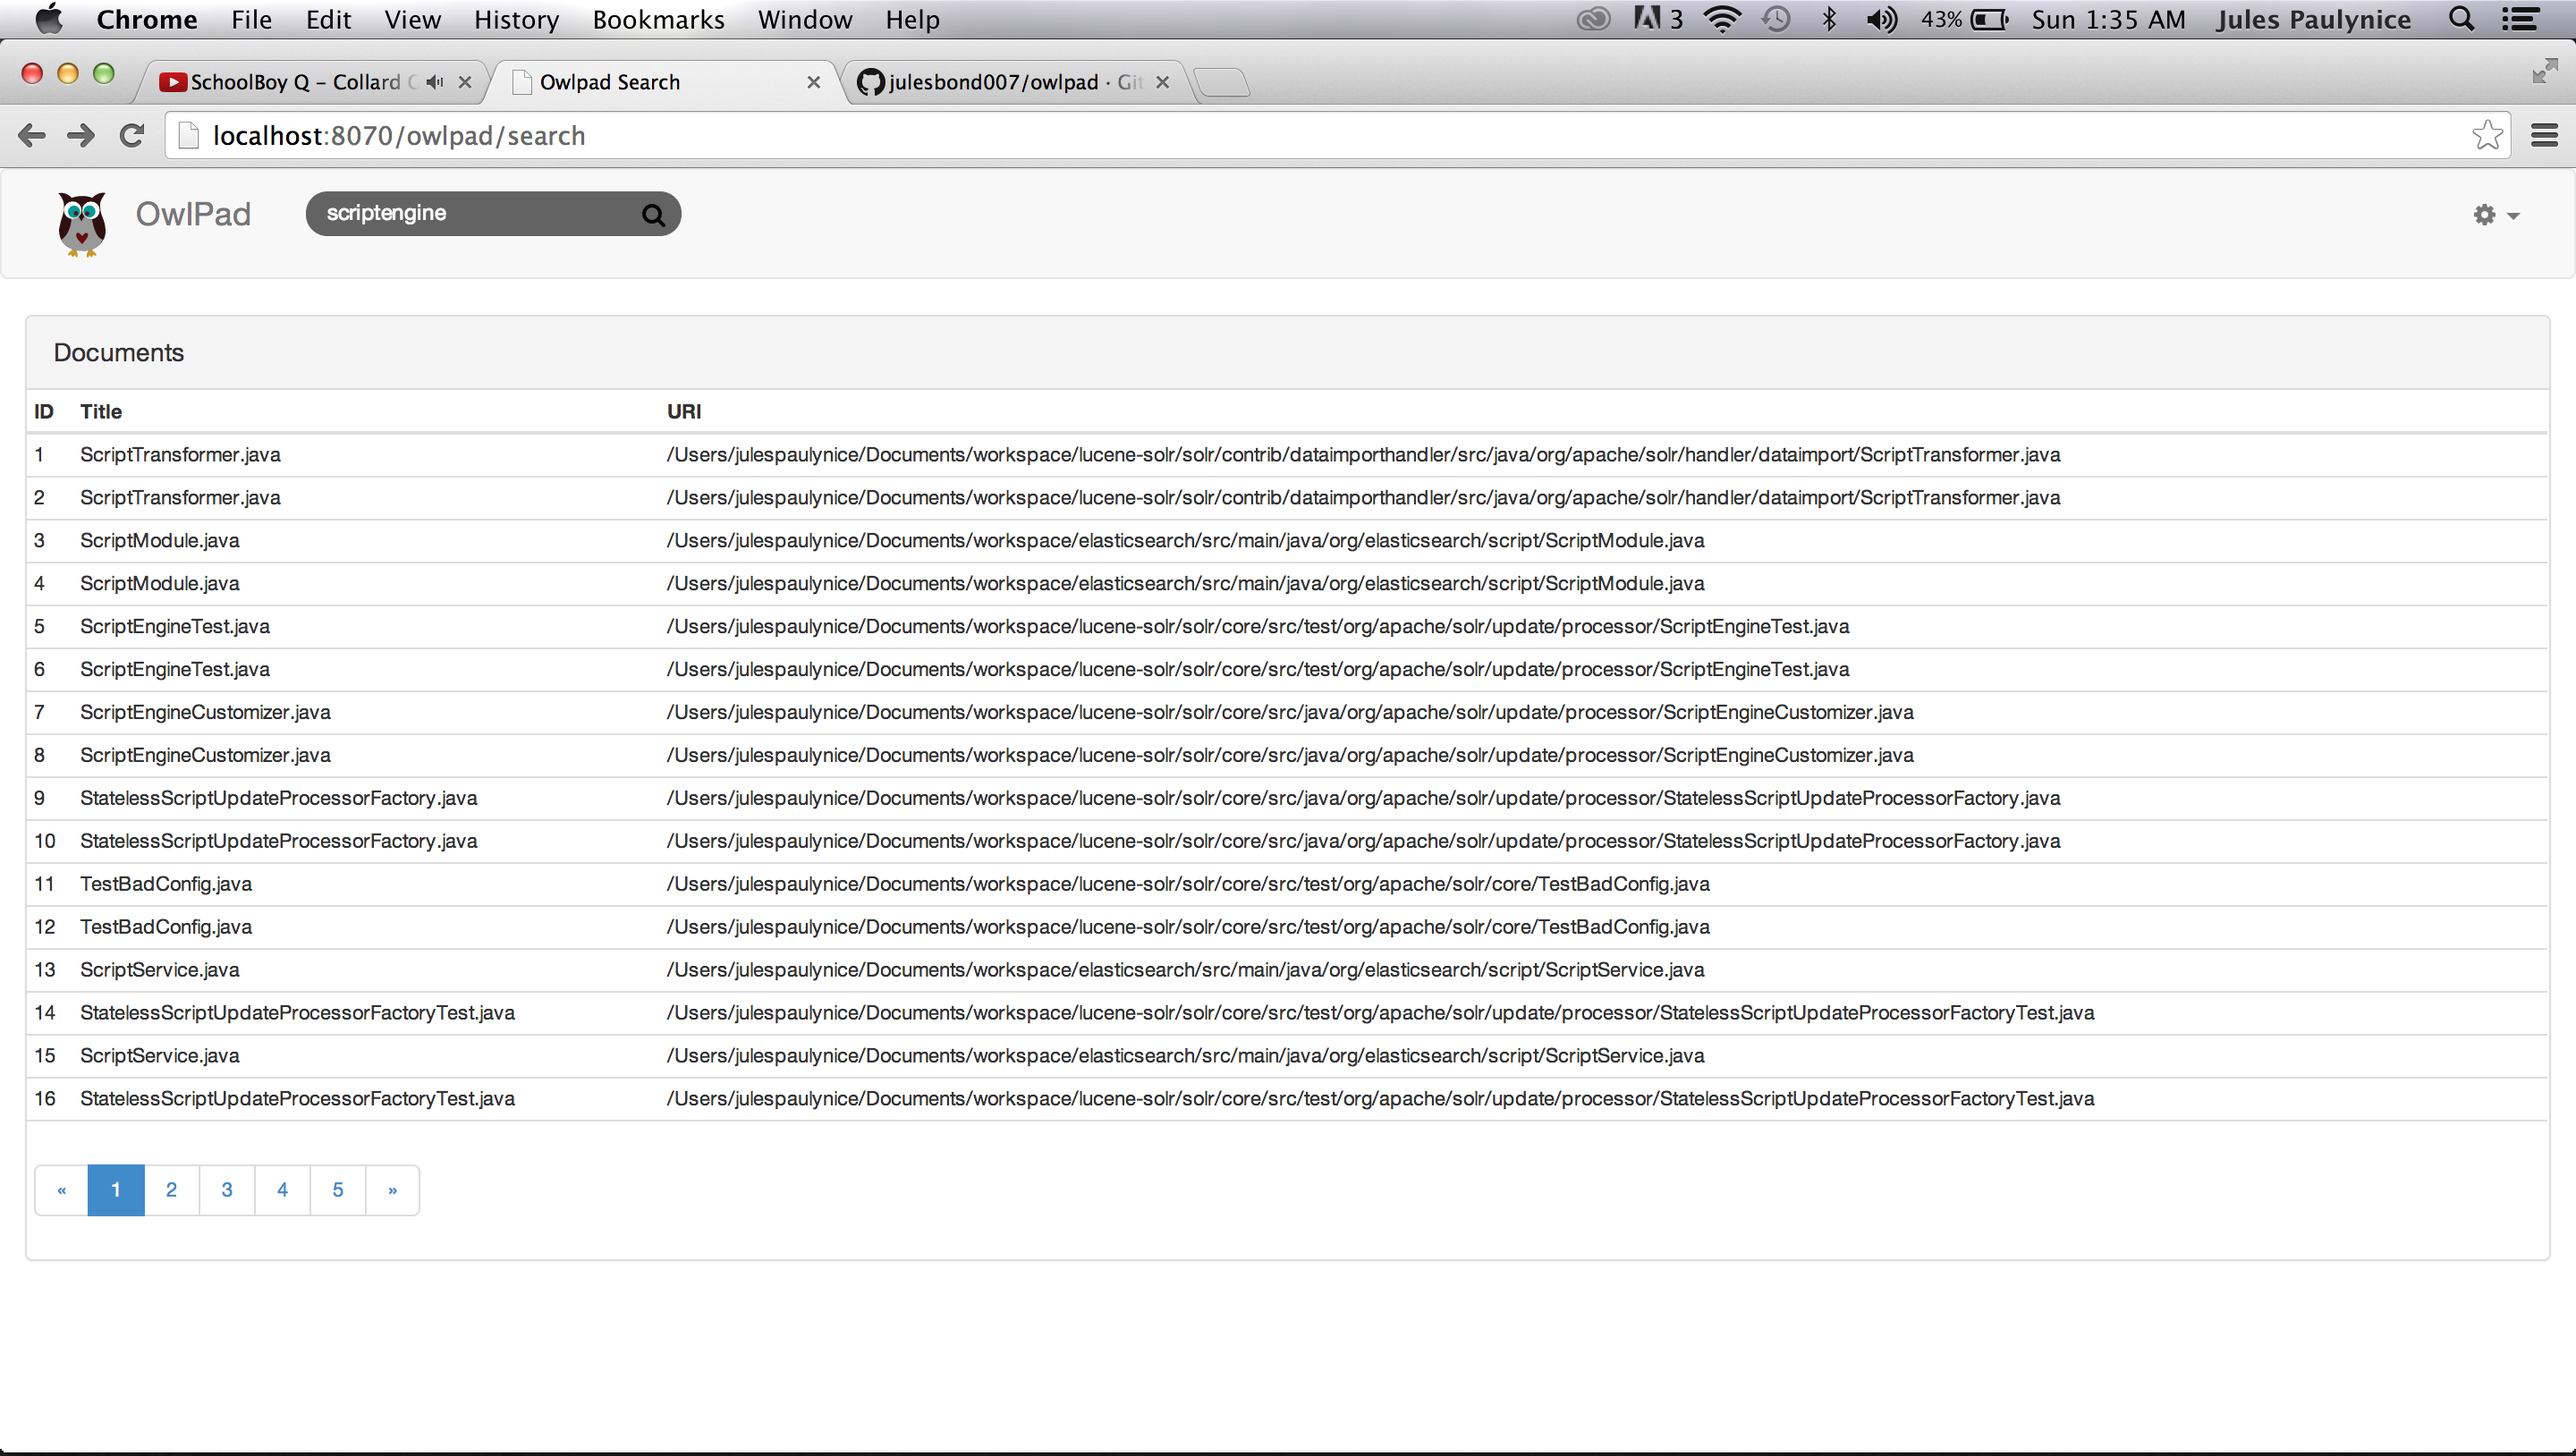
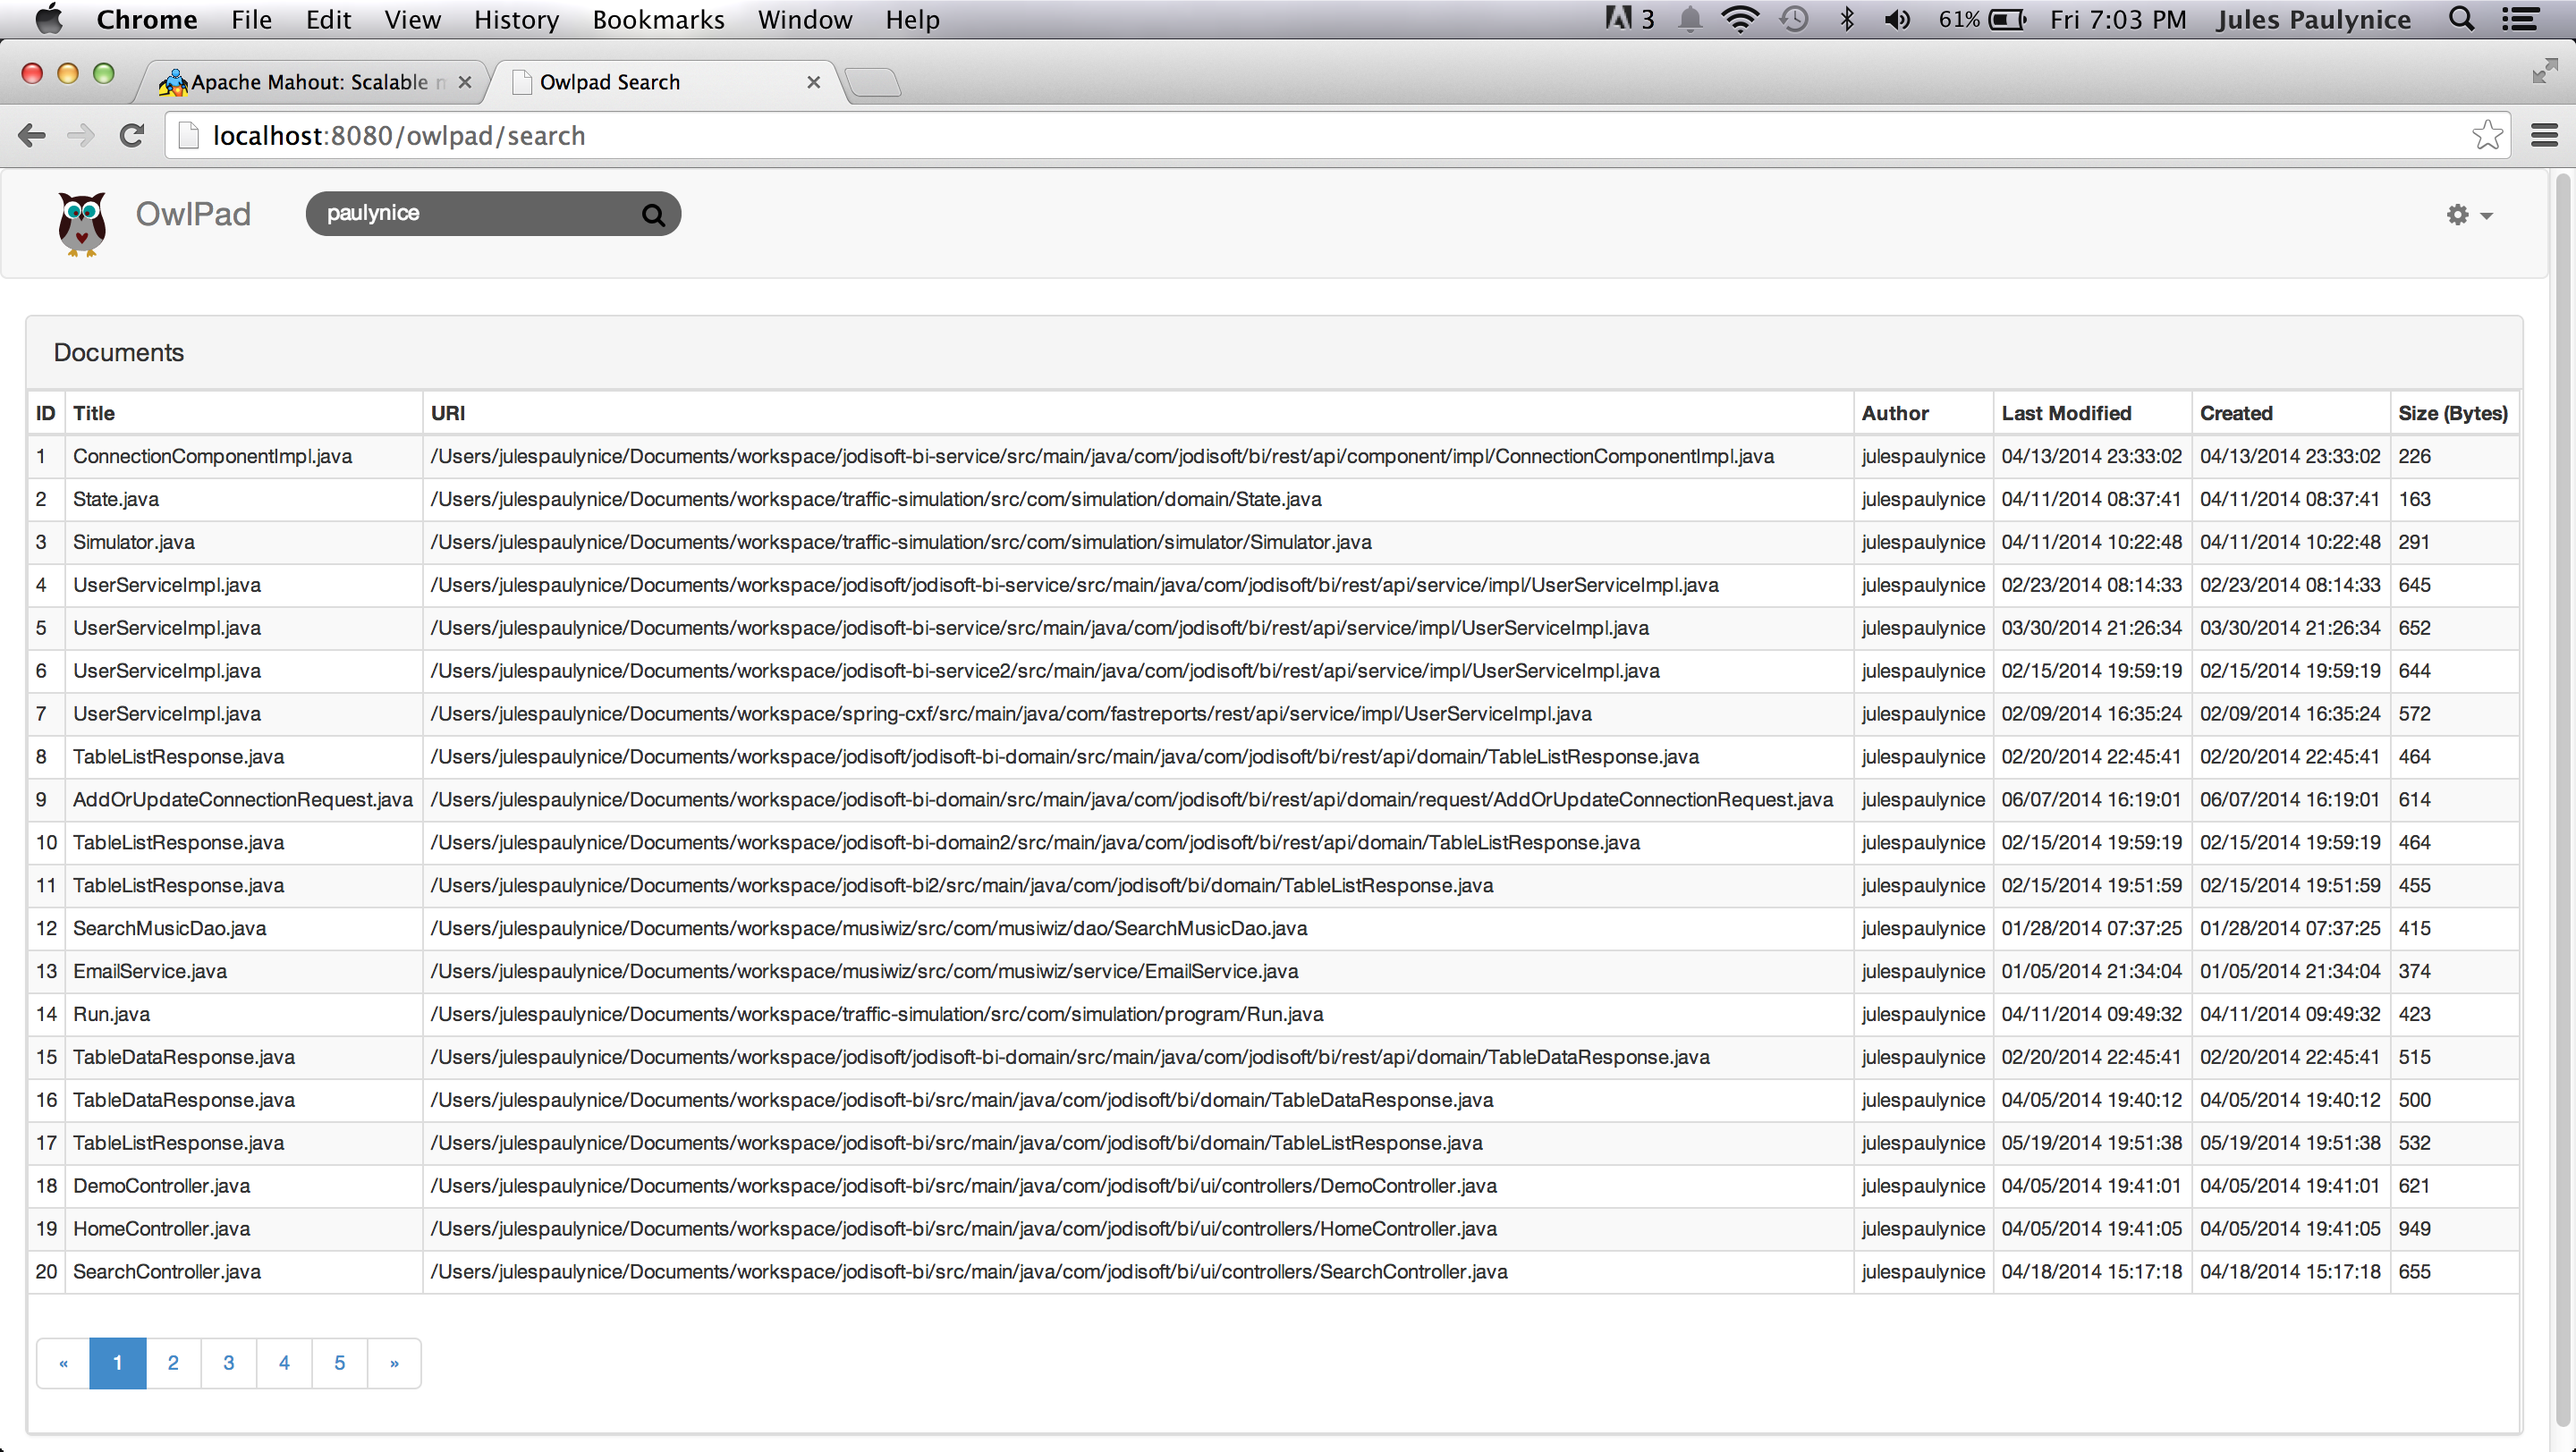
fix search display and add mediator to control all controllers.

diff --git a/owlpad-app/src/main/webapp/resources/js/app/mediators/appMediator.js b/owlpad-app/src/main/webapp/resources/js/app/mediators/appMediator.js
@@ -1,0 +1,37 @@
+/**
+ * Main controller manages all controllers and main application responsibilities.
+ * 
+ */
+define([ 'jquery', 
+         'underscore', 
+         'backbone', 
+         'marionette',
+         'app/controllers/headerController' ,
+         'app/controllers/searchController',
+         'app/controllers/gridController'], 
+         function($, _,Backbone, Marionette,HeaderController,SearchController,GridController) {
+
+    var AppMediator = Backbone.Marionette.Controller.extend({
+        initialize : function(regions) {
+            this.gridController = new GridController(regions.gridRegion);
+            this.searchController = new SearchController();
+            var headerController = new HeaderController(regions.header)
+            
+            this.listenTo(headerController,'searchapp:header:search',this.search);
+        },
+        
+        search: function(data){
+            var self = this;
+            var searchCall = this.searchController.search(data);
+            $.when(searchCall).done(function(results){
+                self.showSearchResults(results);
+            });
+        },
+        
+        showSearchResults: function(data){
+            this.gridController.showGridResults(data);
+        }
+    });
+
+    return AppMediator;
+});

diff --git a/owlpad-app/src/main/webapp/resources/js/app/controllers/headerController.js b/owlpad-app/src/main/webapp/resources/js/app/controllers/headerController.js
@@ -1,0 +1,26 @@
+/**
+ * Main controller manages all controllers and main application responsibilities.
+ * 
+ */
+define([ 'jquery', 
+         'underscore', 
+         'backbone', 
+         'marionette',
+         'app/views/header/header'], 
+         function($, _,Backbone, Marionette,HeaderView,SearchController,GridController) {
+
+    var HeaderController = Backbone.Marionette.Controller.extend({
+        initialize : function(headerRegion) {            
+            var headerView = new HeaderView();
+            headerRegion.show(headerView);
+
+            this.listenTo(headerView,'searchapp:search',this.search);
+        },
+        
+        search: function(data){
+            this.trigger('searchapp:header:search',data);
+        }
+    });
+
+    return HeaderController;
+});

diff --git a/owlpad-app/src/main/webapp/resources/js/app/controllers/gridController.js b/owlpad-app/src/main/webapp/resources/js/app/controllers/gridController.js
@@ -22,16 +22,16 @@ define([ 'jquery',
 		showGridResults : function(data) {	
 			if(data.documents && data.documents.length>0){
 				var headers = [];
-				for(var key in data.documents[0].fields){
-					headers.push(data.documents[0].fields[key].name);
-				}
+				var fields = data.documents[0].fields;
+				_.each(fields, function(field){
+				    headers.push(field.name);
+				});
 				
 				var coll = new Backbone.Collection();
 				
-				for(var i in data.documents){
-					var fields = data.documents[i].fields;
-					coll.add(new Backbone.Model({fields:fields}));
-				}
+				_.each(data.documents,function(doc){
+				    coll.add(new Backbone.Model({fields:doc.fields}));
+				});
 
 				var gridView = new Grid({
 					collection : coll,

diff --git a/owlpad-app/src/main/webapp/resources/js/app/app.js b/owlpad-app/src/main/webapp/resources/js/app/app.js
@@ -5,8 +5,8 @@ define([ 'jquery',
          'underscore', 
          'backbone', 
          'marionette',
-         'app/controllers/mainController' ], 
-         function($, _, Backbone, Marionette,MainController) {
+         'app/mediators/appMediator' ], 
+         function($, _, Backbone, Marionette,AppMediator) {
 
 	var SearchApp = new Backbone.Marionette.Application();
 
@@ -17,7 +17,7 @@ define([ 'jquery',
 	
 	var appRegions = {'header':SearchApp.header,'gridRegion':SearchApp.gridRegion};
 
-	var mainController = new MainController(appRegions);
+	var appMediator = new AppMediator(appRegions);
 
 	return SearchApp;
 });

diff --git a/owlpad-service-impl/src/main/java/com/owlpad/service/impl/search/SearchServiceImpl.java b/owlpad-service-impl/src/main/java/com/owlpad/service/impl/search/SearchServiceImpl.java
@@ -43,7 +43,7 @@ public class SearchServiceImpl implements SearchService{
 		String query = searchRequest.getKeyWord();
 		int hits = searchRequest.getMaxHits();
 		
-		File indexDir = new File("/Users/julespaulynice/Documents/search/index");
+		File indexDir = new File("/Users/julespaulynice/Documents/luna/index");
 		Directory directory = null;
 		try {
 			directory = FSDirectory.open(indexDir);
